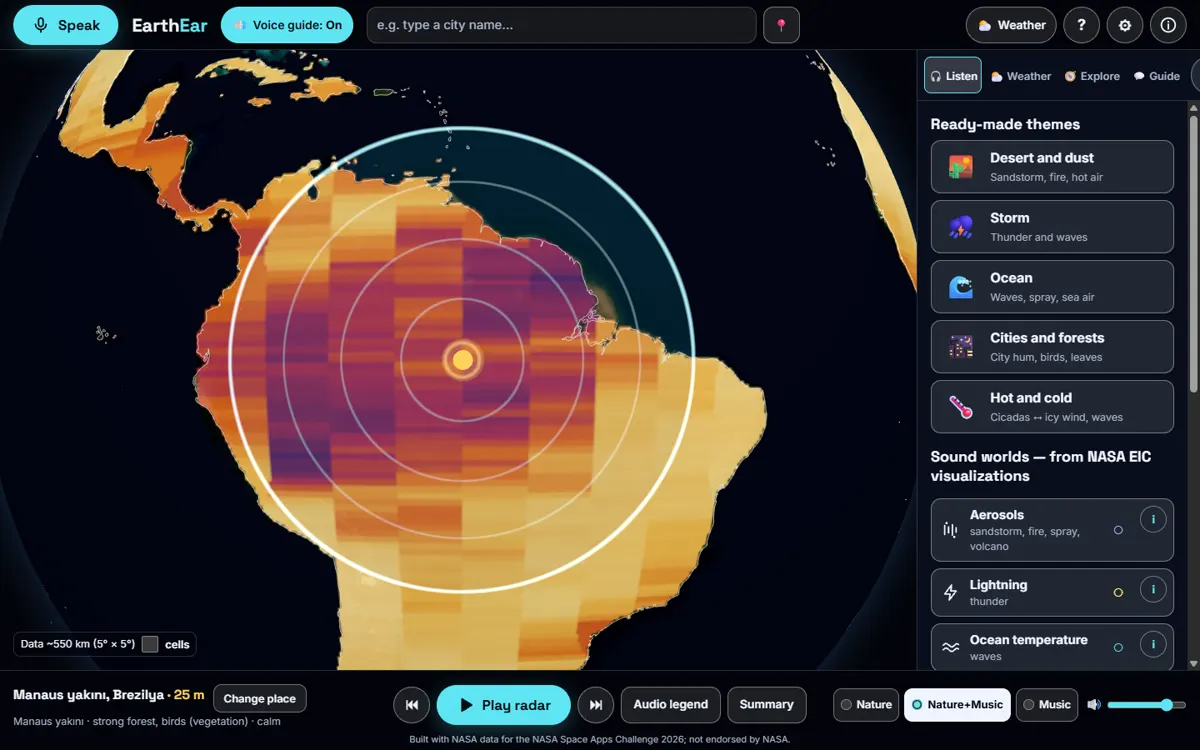
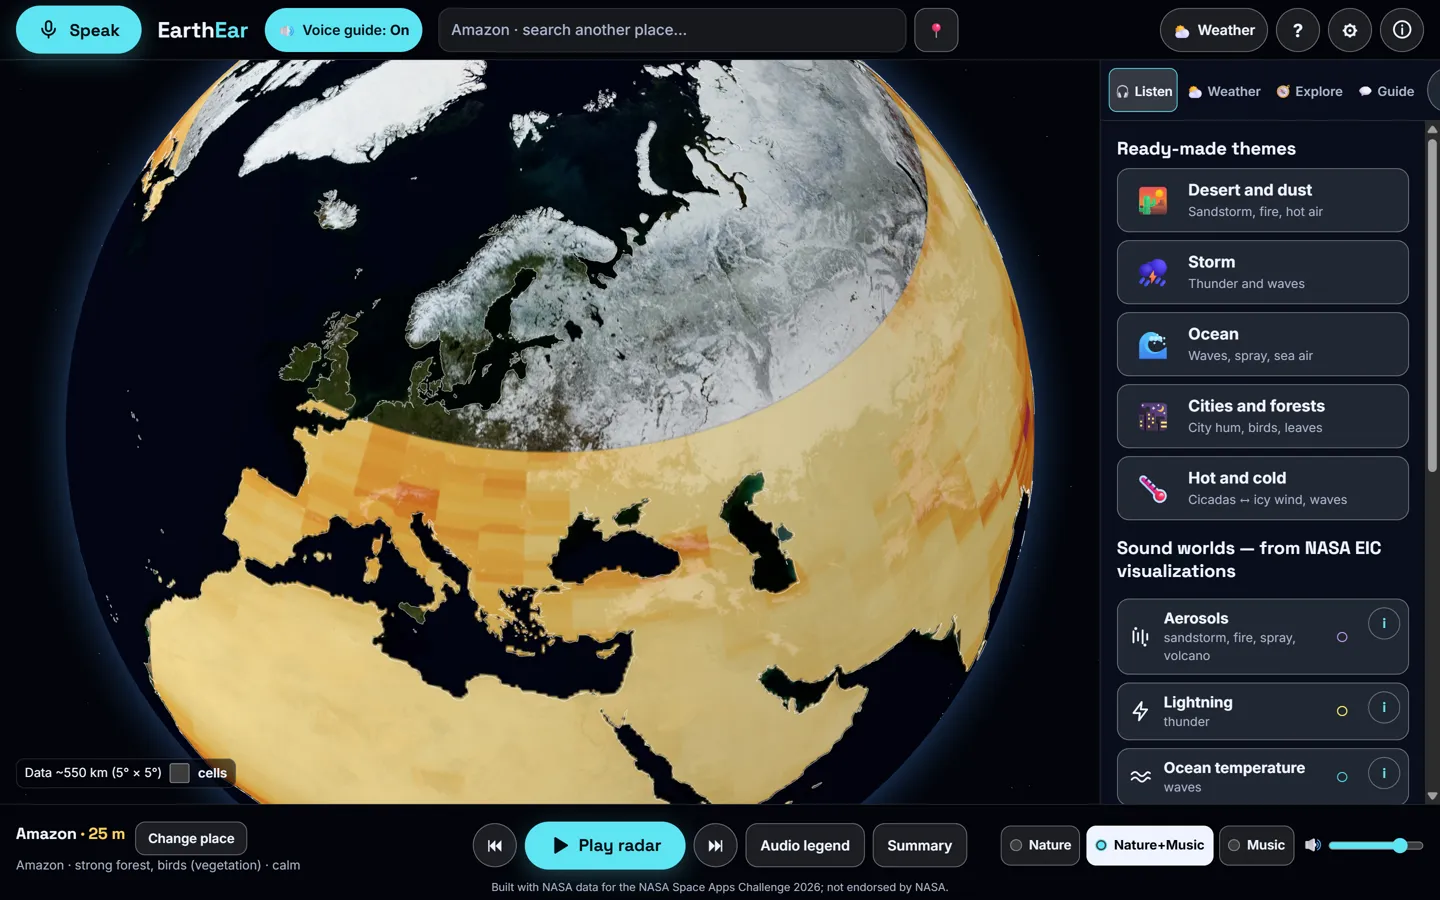
Landing hero: uygulamanın giriş sekansı (güneş sistemi → Dünya'ya uçuş → gerçek 3D küre, Globe3D dekor modu), poster ile hızlı ilk boyama, Atla/tuş/kaydırma, oturumda bir kez, reduced-motion son kare; GPU ile 2x çekilmiş yeni görseller (srcset)

diff --git a/src/landing/HeroIntro.tsx b/src/landing/HeroIntro.tsx
@@ -1,0 +1,74 @@
+// Landing hero arka planı: uygulamadaki giriş sekansının AYNISI (paylaşılan bileşenler, kopya yok):
+//   1) dönen güneş sistemi (three/solarSystem.ts — StartGate ile aynı sahne)  2) kamera Dünya'ya uçar  3) uygulamanın gerçek 3D küresi (Globe3D: Blue Marble,
+//   Natural Earth kıyıları, atmosfer parıltısı) yavaşça döner. Ses ve mikrofon YOK.
+// Hızlı ilk boyama: önce statik poster (WebP), canlı sahne hazır olunca yumuşak geçiş; three.js tembel yüklenir.
+// Atla düğmesi; herhangi bir tuş, kaydırma ya da tıklama bitirir. Oturum başına bir kez (sessionStorage); reduced-motion → doğrudan son kare.
+import { lazy, Suspense, useEffect, useRef, useState } from 'react';
+
+const Globe3D = lazy(() => import('../three/Globe3D.tsx').then((m) => ({ default: m.Globe3D })));
+const KEY = 'ee-intro-done';
+const reduced = () => typeof matchMedia !== 'undefined' && matchMedia('(prefers-reduced-motion: reduce)').matches;
+const seen = () => { try { return sessionStorage.getItem(KEY) === '1'; } catch { return false; } };
+const touch = () => typeof matchMedia !== 'undefined' && matchMedia('(pointer: coarse)').matches;
+
+export function HeroIntro({ skipLabel }: { skipLabel: string }) {
+  const [phase, setPhase] = useState<'solar' | 'fly' | 'globe'>(() => (reduced() || seen() ? 'globe' : 'solar'));
+  const [globeOn, setGlobeOn] = useState(phase === 'globe');   // küre bileşeni kuruldu mu (uçuş sırasında arkada hazırlanır)
+  const [globeReady, setGlobeReady] = useState(false);
+  const [solarReady, setSolarReady] = useState(false);
+  const solarEl = useRef<HTMLDivElement>(null);
+  const leaving = useRef(false);
+  const solarStarted = useRef(false), tStart = useRef<ReturnType<typeof setTimeout> | undefined>(undefined);
+
+  const finish = () => { try { sessionStorage.setItem(KEY, '1'); } catch { /* yok say */ } setGlobeOn(true); setPhase('globe'); };
+
+  // güneş sistemi: tembel yükle, ~2,2 sn sonra Dünya'ya uç
+  useEffect(() => {
+    if (phase !== 'solar') return;
+    let stop: (() => void) | null = null, dead = false;
+    const t = setTimeout(() => { if (!solarStarted.current) return; leaving.current = true; setPhase((p) => (p === 'solar' ? 'fly' : p)); setGlobeOn(true); }, 2600);
+    // ilk boyama hızlı kalsın: sahne, sayfa yüklendikten ve tarayıcı boşa düştükten sonra kurulur (o zamana kadar poster)
+    const idle = () => new Promise<void>((r) => { const go = () => { const w = window as unknown as { requestIdleCallback?: (f: () => void, o?: { timeout: number }) => number }; if (w.requestIdleCallback) w.requestIdleCallback(() => r(), { timeout: 1500 }); else setTimeout(r, 300); }; if (document.readyState === 'complete') go(); else addEventListener('load', go, { once: true }); });
+    idle().then(() => import('../three/solarSystem.ts')).then(({ mountSolarSystem }) => {
+      if (dead || !solarEl.current) return;
+      stop = mountSolarSystem(solarEl.current, { reduced: false, earthUrl: '/media/bluemarble_2048.jpg', waves: true, isLeaving: () => leaving.current, onLeft: finish });
+      solarStarted.current = true; requestAnimationFrame(() => setSolarReady(true));
+      tStart.current = setTimeout(() => { leaving.current = true; setPhase((p) => (p === 'solar' ? 'fly' : p)); setGlobeOn(true); }, 2600);
+    });
+    return () => { dead = true; clearTimeout(t); clearTimeout(tStart.current); stop?.(); };
+    // eslint-disable-next-line react-hooks/exhaustive-deps
+  }, []);
+  // herhangi bir tuş / kaydırma / tıklama animasyonu bitirir
+  useEffect(() => {
+    if (phase === 'globe') return;
+    const end = () => finish();
+    const opts = { passive: true } as AddEventListenerOptions;
+    addEventListener('keydown', end); addEventListener('wheel', end, opts); addEventListener('touchmove', end, opts); addEventListener('pointerdown', end);
+    return () => { removeEventListener('keydown', end); removeEventListener('wheel', end); removeEventListener('touchmove', end); removeEventListener('pointerdown', end); };
+    // eslint-disable-next-line react-hooks/exhaustive-deps
+  }, [phase === 'globe']);
+
+  const intro = phase !== 'globe';
+  const poster = intro ? 'hero-solar' : 'hero-globe';
+  const live = intro ? solarReady : globeReady;
+  return (
+    <>
+    <div className={`hero-bg phase-${phase}`} aria-hidden="true">
+      <picture>
+        <source media="(max-width: 760px)" srcSet={`/landing/${poster}-m.webp`} />
+        <img className={`hero-poster${live ? ' gone' : ''}`} src={`/landing/${poster}.webp`} alt="" width={1440} height={900} fetchPriority="high" decoding="async" />
+      </picture>
+      {globeOn && (
+        <div className={`hero-globe${phase === 'globe' && globeReady ? ' on' : ''}`}>
+          <Suspense fallback={null}>
+            <Globe3D decor source={null} landCanvas={null} baseUrl={`/media/bluemarble_${touch() ? 2048 : 4096}.jpg`} center={null} rangeKm={2000}
+              angle={() => null} level={() => 0} reducedMotion={reduced()} onPick={() => {}} onSlow={() => {}} onReady={() => setGlobeReady(true)} />
+          </Suspense>
+        </div>
+      )}
+      {intro && <div ref={solarEl} className={`hero-solar${solarReady ? ' on' : ''}`} />}
+    </div>
+    {intro && <button type="button" className="skip-intro" onClick={finish}>{skipLabel}</button>}
+    </>
+  );
+}

diff --git a/src/landing/content.ts b/src/landing/content.ts
@@ -24,6 +24,7 @@ export const C = {
     text: t("Discover Earth's hidden stories through sound. Explore scientific data, experience real-time sonification, and understand our planet through a new dimension.",
       'Dünya’nın gizli hikâyelerini sesle keşfet. Bilimsel veriyi gez, gerçek zamanlı sonifikasyonu deneyimle ve gezegenimizi yeni bir boyuttan anla.'),
     how: t('Discover How It Works', 'Nasıl Çalıştığını Gör'),
+    skip: t('Skip intro', 'Girişi atla'),
     visualAlt: t('Animated solar system with sound-wave rings spreading from Earth', 'Dünya’dan ses dalgası halkalarının yayıldığı dönen güneş sistemi'),
   },
   why: {
@@ -54,13 +55,13 @@ export const C = {
       { b: t('Accessibility and inclusion', 'Erişilebilirlik ve kapsayıcılık'), p: t('— a blind student can explore the same NASA data as everyone else.', '— görme engelli bir öğrenci herkesle aynı NASA verisini keşfedebilir.') },
       { b: t('Museums and science outreach', 'Müzeler ve bilim iletişimi'), p: t('— a listening station for the planet, controlled by voice.', '— sesle yönetilen bir gezegen dinleme istasyonu.') },
     ],
-    shotAlt: t('EarthEar app: a 3D globe showing lightning density over Central Africa, with the radar rings around the chosen point and the sound-world panel on the right', 'EarthEar uygulaması: Orta Afrika üzerinde yıldırım yoğunluğunu gösteren 3B küre, seçilen noktanın çevresinde radar halkaları ve sağda ses dünyası paneli'),
+    shotAlt: t('EarthEar app: the 3D Blue Marble globe showing Africa and Europe, with the radar rings around a point in the Sahara', 'EarthEar uygulaması: Afrika ve Avrupa’yı gösteren 3B Blue Marble küre, Sahra’daki bir noktanın çevresinde radar halkaları'),
   },
   pillars: {
     eyebrow: t('Innovation', 'Yenilik'),
     title: t('Three pillars', 'Üç temel'),
     items: [
-      { h: t('Interactive 3D Earth', 'Etkileşimli 3B Dünya'), p: t('A Blue Marble globe (or a 2D map) with data layers on top. Choose any place in the world, switch layers, step through months.', 'Üzerinde veri katmanları olan Blue Marble küre (ya da 2B harita). Dünyada herhangi bir yeri seç, katman değiştir, aylar arasında gez.'), img: 'currents', alt: t('3D globe showing ocean current speed off the east coast of North America', 'Kuzey Amerika doğu kıyısı açıklarında okyanus akıntı hızını gösteren 3B küre') },
+      { h: t('Interactive 3D Earth', 'Etkileşimli 3B Dünya'), p: t('A Blue Marble globe (or a 2D map) with data layers on top. Choose any place in the world, switch layers, step through months.', 'Üzerinde veri katmanları olan Blue Marble küre (ya da 2B harita). Dünyada herhangi bir yeri seç, katman değiştir, aylar arasında gez.'), img: 'canopy', alt: t('3D globe over South America with the canopy-height layer and the radar around the Amazon', 'Kanopi yüksekliği katmanı ve Amazon çevresinde radarla Güney Amerika üzerinde 3B küre') },
       { h: t('Scientific sonification', 'Bilimsel sonifikasyon'), p: t('A radar sweep, a sound world per layer and music generated from the data. Spoken summary and an audio legend explain what you hear.', 'Radar taraması, her katmana bir ses dünyası ve veriden üretilen müzik. Sesli özet ve sesli lejant ne duyduğunu anlatır.'), img: 'radar-aerosol', alt: t('Radar view over the Sahara with the aerosol layer and the beam turning', 'Sahra üzerinde aerosol katmanıyla radar görünümü, dönen ışın') },
       { h: t('Voice & AI Guide', 'Ses ve AI Rehber'), p: t('Wake word "Earth" (Turkish: "Dünya"), hold Space to talk, spoken answers and a typed command box. The guide is a rule-based parser that understands Turkish and English — not a chatbot.', 'Uyandırma kelimesi "Dünya" (İngilizce "Earth"), Boşluk basılı tut-konuş, sesli yanıtlar ve yazılı komut kutusu. Rehber Türkçe ve İngilizce anlayan kural tabanlı bir çözümleyicidir; sohbet botu değildir.'), img: 'guide', alt: t('Guide panel with suggested commands and the command history', 'Önerilen komutlar ve komut geçmişiyle Rehber paneli') },
     ],
@@ -131,8 +132,9 @@ export const C = {
     eyebrow: t('Live experience', 'Canlı deneyim'),
     title: t('This is the real app', 'Bu gerçek uygulama'),
     shots: [
-      { img: 'globe-lightning', cap: t('Lightning climatology over Central Africa (5° cells)', 'Orta Afrika üzerinde yıldırım iklimi (5° hücreler)') },
-      { img: 'canopy', cap: t('Canopy height over the Amazon (GEDI)', 'Amazon üzerinde kanopi yüksekliği (GEDI)') },
+      { img: 'globe-lightning', cap: t('Lightning climatology over the Congo Basin (5° cells)', 'Kongo Havzası üzerinde yıldırım iklimi (5° hücreler)') },
+      { img: 'night', cap: t('Night lights over Europe (NASA SVS 5313, 2023)', 'Avrupa üzerinde gece ışıkları (NASA SVS 5313, 2023)') },
+      { img: 'currents', cap: t('Ocean current speed off North America (OSCAR, 5°)', 'Kuzey Amerika açıklarında okyanus akıntı hızı (OSCAR, 5°)') },
       { img: 'weather', cap: t('Weather tab with the GEOS-FP forecast for Sivas', 'Sivas için GEOS-FP tahminiyle Hava sekmesi') },
     ],
     btn: t('Explore the Interactive Earth', 'Etkileşimli Dünya’yı keşfet'),

diff --git a/src/landing/Landing.tsx b/src/landing/Landing.tsx
@@ -1,27 +1,13 @@
 // EarthEar landing sayfası ("/"). Uygulama "/app" altında; buradan ses ya da mikrofon BAŞLAMAZ.
 // Metin: content.ts (EN varsayılan, TR). Dil seçimi localStorage 'lang' (uygulamayla ortak) + /app bağlantılarına ?lang=.
-import { useEffect, useRef, useState } from 'react';
+import { useEffect, useState } from 'react';
 import '../styles/tokens.css';
 import './landing.css';
 import { C, NAV, REPO, type LLang } from './content.ts';
+import { HeroIntro } from './HeroIntro.tsx';
 
 const reducedMotion = () => typeof matchMedia !== 'undefined' && matchMedia('(prefers-reduced-motion: reduce)').matches;
 const initialLang = (): LLang => { try { const s = localStorage.getItem('lang'); return s === 'tr' ? 'tr' : 'en'; } catch { return 'en'; } };
-
-/** Hero görseli: paylaşılan güneş sistemi sahnesi (three.js tembel yüklenir) + Dünya'dan yayılan ses dalgası halkaları. */
-function HeroVisual({ alt }: { alt: string }) {
-  const el = useRef<HTMLDivElement>(null);
-  useEffect(() => {
-    let stop: (() => void) | null = null, dead = false;
-    const go = () => import('../three/solarSystem.ts').then(({ mountSolarSystem }) => {
-      if (dead || !el.current) return;
-      stop = mountSolarSystem(el.current, { reduced: reducedMotion(), earthUrl: '/media/bluemarble_2048.jpg', waves: true, ...(innerWidth > 760 ? { home: [0, 12, 21], look: [-9, 0, 0] } : { home: [0, 15, 22], look: [0, -5.5, 0] }) }); // masaüstü: sistem sağda, yazı solda · telefon: sistem üstte
-    });
-    const w = window as unknown as { requestIdleCallback?: (f: () => void) => number }; const id = w.requestIdleCallback ? w.requestIdleCallback(go) : setTimeout(go, 200);
-    return () => { dead = true; stop?.(); void id; };
-  }, []);
-  return <div ref={el} className="hero-visual" role="img" aria-label={alt} />;
-}
 
 /** Kaydırınca beliren bölüm (reduced-motion'da hemen görünür). */
 function useReveal() {
@@ -53,7 +39,9 @@ export default function Landing() {
   const setLang = (l: LLang) => { setLangS(l); try { localStorage.setItem('lang', l); } catch { /* yok say */ } };
   useEffect(() => { document.documentElement.lang = lang; document.title = lang === 'tr' ? 'EarthEar — Değişen gezegeni dinle' : 'EarthEar — Listen to the Changing Planet'; }, [lang]);
   useReveal();
-  const img = (name: string) => `/landing/${name}.webp`;
+  /** Gerçek GPU ile çekilmiş görüntü: 1× (1440 px) + 2× (2880 px), tembel yükleme. */
+  const HAS2X = ['africa-europe', 'canopy', 'globe-lightning', 'night', 'currents', 'radar-aerosol', 'weather'];
+  const pic = (name: string, alt: string) => <img src={`/landing/${name}.webp`} srcSet={HAS2X.includes(name) ? `/landing/${name}.webp 1x, /landing/${name}@2x.webp 2x` : undefined} alt={alt} width={name === 'africa-europe' ? 1100 : 1440} height={name === 'africa-europe' ? 740 : 900} loading="lazy" decoding="async" />;
 
   return (
     <div className="lp">
@@ -72,7 +60,7 @@ export default function Landing() {
 
       <main id="top">
         <section className="hero" aria-labelledby="hero-h">
-          <HeroVisual alt={L(C.hero.visualAlt)} />
+          <HeroIntro skipLabel={L(C.hero.skip)} />
           <div className="hero-copy">
             <p className="brand">{L(C.hero.brand)}</p>
             <h1 id="hero-h">{L(C.hero.title)}</h1>
@@ -91,7 +79,7 @@ export default function Landing() {
 
         <Section id="about" eyebrow={L(C.about.eyebrow)} title={L(C.about.title)}>
           <p className="intro big">{L(C.about.lead)}</p>
-          <figure className="shot wide"><img src={img('globe-lightning')} alt={L(C.about.shotAlt)} width={1200} height={750} loading="lazy" decoding="async" /></figure>
+          <figure className="shot wide">{pic('africa-europe', L(C.about.shotAlt))}</figure>
           <h3 className="sub">{L(C.about.diffTitle)}</h3>
           <div className="grid3">{C.about.diff.map((c, i) => <article key={i} className="card"><h4>{L(c.h)}</h4><p>{L(c.p)}</p></article>)}</div>
           <h3 className="sub">{L(C.about.useTitle)}</h3>
@@ -101,7 +89,7 @@ export default function Landing() {
         <Section eyebrow={L(C.pillars.eyebrow)} title={L(C.pillars.title)} id="innovation">
           <div className="pillars">{C.pillars.items.map((p, i) => (
             <article key={i} className="pillar">
-              <img src={img(p.img)} alt={L(p.alt)} width={1200} height={750} loading="lazy" decoding="async" />
+              {pic(p.img, L(p.alt))}
               <div><h3>{L(p.h)}</h3><p>{L(p.p)}</p></div>
             </article>
           ))}</div>
@@ -141,7 +129,7 @@ export default function Landing() {
         </Section>
 
         <Section eyebrow={L(C.live.eyebrow)} title={L(C.live.title)} id="live">
-          <div className="grid3">{C.live.shots.map((s, i) => <figure key={i} className="shot"><img src={img(s.img)} alt={L(s.cap)} width={1200} height={750} loading="lazy" decoding="async" /><figcaption>{L(s.cap)}</figcaption></figure>)}</div>
+          <div className="grid2">{C.live.shots.map((s, i) => <figure key={i} className="shot">{pic(s.img, L(s.cap))}<figcaption>{L(s.cap)}</figcaption></figure>)}</div>
           <p className="center"><a className="btn btn-primary btn-lg" href={app()}>{L(C.live.btn)}</a></p>
         </Section>
 

diff --git a/src/three/Globe3D.tsx b/src/three/Globe3D.tsx
@@ -21,6 +21,10 @@ interface Props {
   onPick: (p: LatLon) => void;
   onHover?: (p: LatLon | null) => void; // fare küre üstünde gezerken altındaki nokta (yer adını söylemek için)
   onSlow: () => void;          // FPS düşük → 2D'ye düş
+  /** Dekor modu (landing hero): yakınlaştırma/döndürme/seçme yok (sayfa kaydırması küreye takılmaz), yalnız yavaş kendi kendine dönme. */
+  decor?: boolean;
+  /** Taban görüntüsü yüklenip ilk kare çizildi (poster → canlı sahne geçişi için). */
+  onReady?: () => void;
 }
 
 /** Enlem/boylam → küre birim vektörü (three SphereGeometry UV düzeniyle uyumlu). */
@@ -142,6 +146,7 @@ export function Globe3D(props: Props) {
       if (disposed) { t.dispose(); return; }
       t.colorSpace = THREE.SRGBColorSpace; t.anisotropy = maxAniso; t.needsUpdate = true;
       uniforms.uBase.value = t; uniforms.uHasBase.value = 1; uniforms.uCoastW.value = 0; // taban görüntüsü varken raster kara maskesi kullanılmaz
+      requestAnimationFrame(() => requestAnimationFrame(() => P.current.onReady?.()));
     });
     fetch(`${import.meta.env.BASE_URL}data/coastline_50m.json`).then((r) => (r.ok ? r.json() : null)).then((c: { points: number; starts: number[]; data: string } | null) => {
       if (!c || disposed) return;
@@ -169,6 +174,7 @@ export function Globe3D(props: Props) {
     controls.enablePan = false; controls.enableDamping = true; controls.dampingFactor = 0.08;
     controls.minDistance = 1.35; controls.maxDistance = 6; controls.rotateSpeed = 0.5;
     controls.autoRotate = !P.current.reducedMotion; controls.autoRotateSpeed = 0.55;
+    if (P.current.decor) { controls.enableZoom = false; controls.enableRotate = false; controls.autoRotateSpeed = 0.35; renderer.domElement.style.pointerEvents = 'none'; }
 
     // --- doku geçişi
     const texOf = (s: GlobeSource) => {

diff --git a/src/landing/landing.css b/src/landing/landing.css
@@ -181,3 +181,18 @@
 @media (prefers-reduced-motion: no-preference) { html:has(.lp) { scroll-behavior: smooth; } }
 .lp section[id] { scroll-margin-top: 80px; }
 .boot { min-height: 100vh; display: grid; place-content: center; background: #02040a; color: #a9b4cc; font-family: system-ui; }
+
+/* hero arka planı: poster → güneş sistemi → Dünya'ya uçuş → gerçek 3D küre (HeroIntro.tsx) */
+.hero-bg { position: absolute; inset: 0; background: #02040a; overflow: hidden; }
+.hero-bg picture, .hero-poster { position: absolute; inset: 0; width: 100%; height: 100%; }
+.hero-poster { object-fit: cover; transition: opacity .8s ease; }
+.hero-poster.gone { opacity: 0; }
+.hero-solar, .hero-globe { position: absolute; inset: 0; opacity: 0; transition: opacity 1s ease; }
+.hero-solar.on, .hero-globe.on { opacity: 1; }
+.hero-solar canvas, .hero-globe canvas { width: 100% !important; height: 100% !important; display: block; }
+.hero-globe { left: 34%; }                                   /* masaüstü: küre sağda, yazı solda */
+.hero-globe .globe { position: absolute; inset: 0; }
+.skip-intro { position: absolute; right: max(20px, calc((100vw - var(--max)) / 2)); bottom: 28px; z-index: 3; min-height: 44px; padding: 8px 18px; border-radius: 999px; border: 1px solid rgba(255,255,255,.45); background: rgba(2,4,10,.6); color: var(--ink); font: 600 15px var(--font-h); cursor: pointer; }
+.skip-intro:hover { border-color: var(--accent); }
+@media (max-width: 760px) { .hero-globe { left: 0; bottom: 42%; } }
+@media (prefers-reduced-motion: reduce) { .hero-poster, .hero-solar, .hero-globe { transition: none; } }

diff --git a/src/three/solarSystem.ts b/src/three/solarSystem.ts
@@ -42,7 +42,7 @@ export function mountSolarSystem(el: HTMLElement, o: SolarOpts): () => void {
   let renderer: THREE.WebGLRenderer;
   try { renderer = new THREE.WebGLRenderer({ antialias: true, alpha: false, powerPreference: 'low-power' }); } catch { return () => {}; } // WebGL yok: yalnız CSS arka plan
   const low = matchMedia('(pointer: coarse)').matches || (navigator.hardwareConcurrency ?? 8) <= 4;
-  renderer.setPixelRatio(Math.min(devicePixelRatio || 1, low ? 1.25 : 1.75));
+  renderer.setPixelRatio(Math.min(devicePixelRatio || 1, low ? 1 : 1.75)); // zayıf cihazda piksel oranı 1
   renderer.setClearColor(0x02040a); renderer.outputColorSpace = THREE.SRGBColorSpace;
   el.appendChild(renderer.domElement);
   const scene = new THREE.Scene(), cam = new THREE.PerspectiveCamera(45, 1, 0.05, 400);
@@ -86,7 +86,9 @@ export function mountSolarSystem(el: HTMLElement, o: SolarOpts): () => void {
   resize(); const ro = new ResizeObserver(resize); ro.observe(el);
   let raf = 0, t = 0, last = performance.now(), leaveT = -1, finished = false;
   const place = () => { for (const b of bodies) { const a = b.phase + t * 0.18 * b.P.speed; b.mesh.position.set(Math.cos(a) * b.P.r, 0, Math.sin(a) * b.P.r); b.mesh.rotation.y = t * 0.6; } };
+  let skip = false;
   const frame = (now: number) => {
+    if (low && !o.isLeaving?.()) { skip = !skip; if (skip) { raf = requestAnimationFrame(frame); return; } } // zayıf cihaz: 30 fps (uçuş tam hızda)
     const dt = Math.min(0.05, (now - last) / 1000); last = now;
     if (!reduced) t += dt;
     place();
